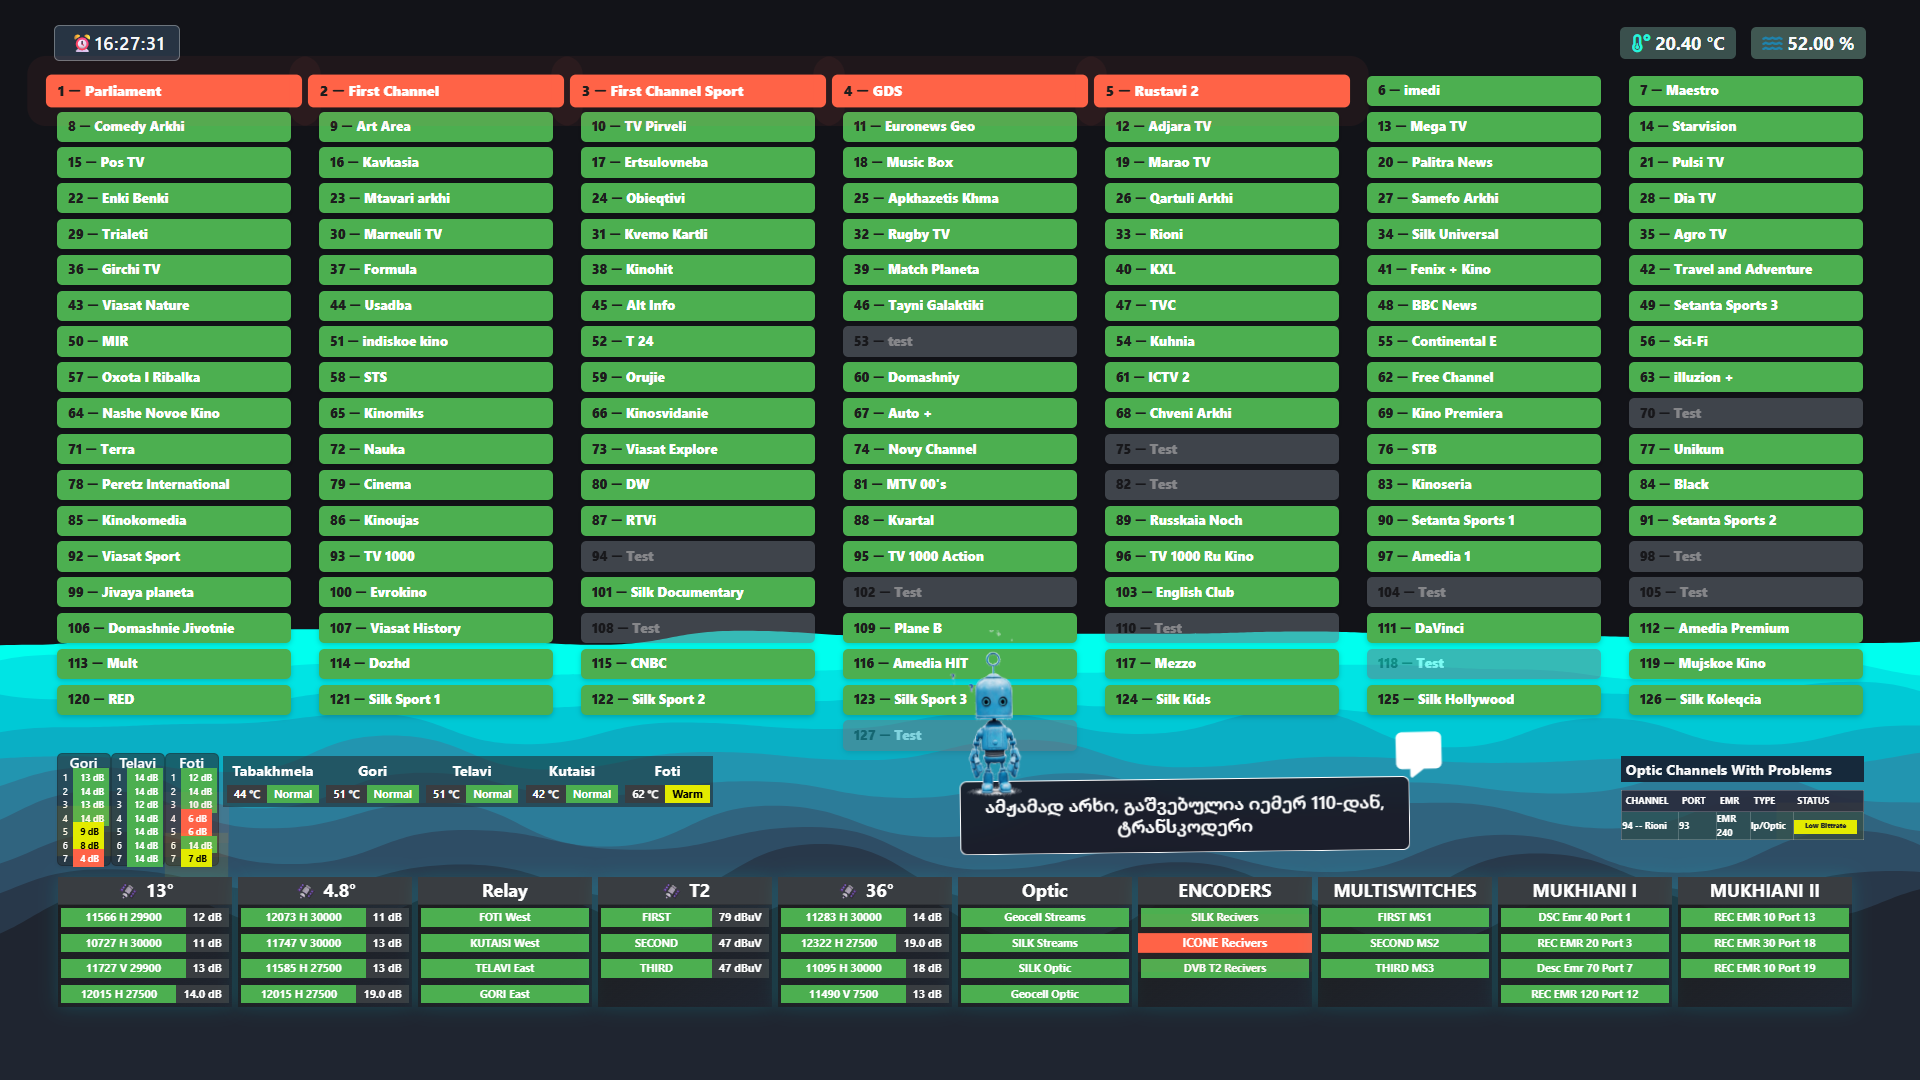
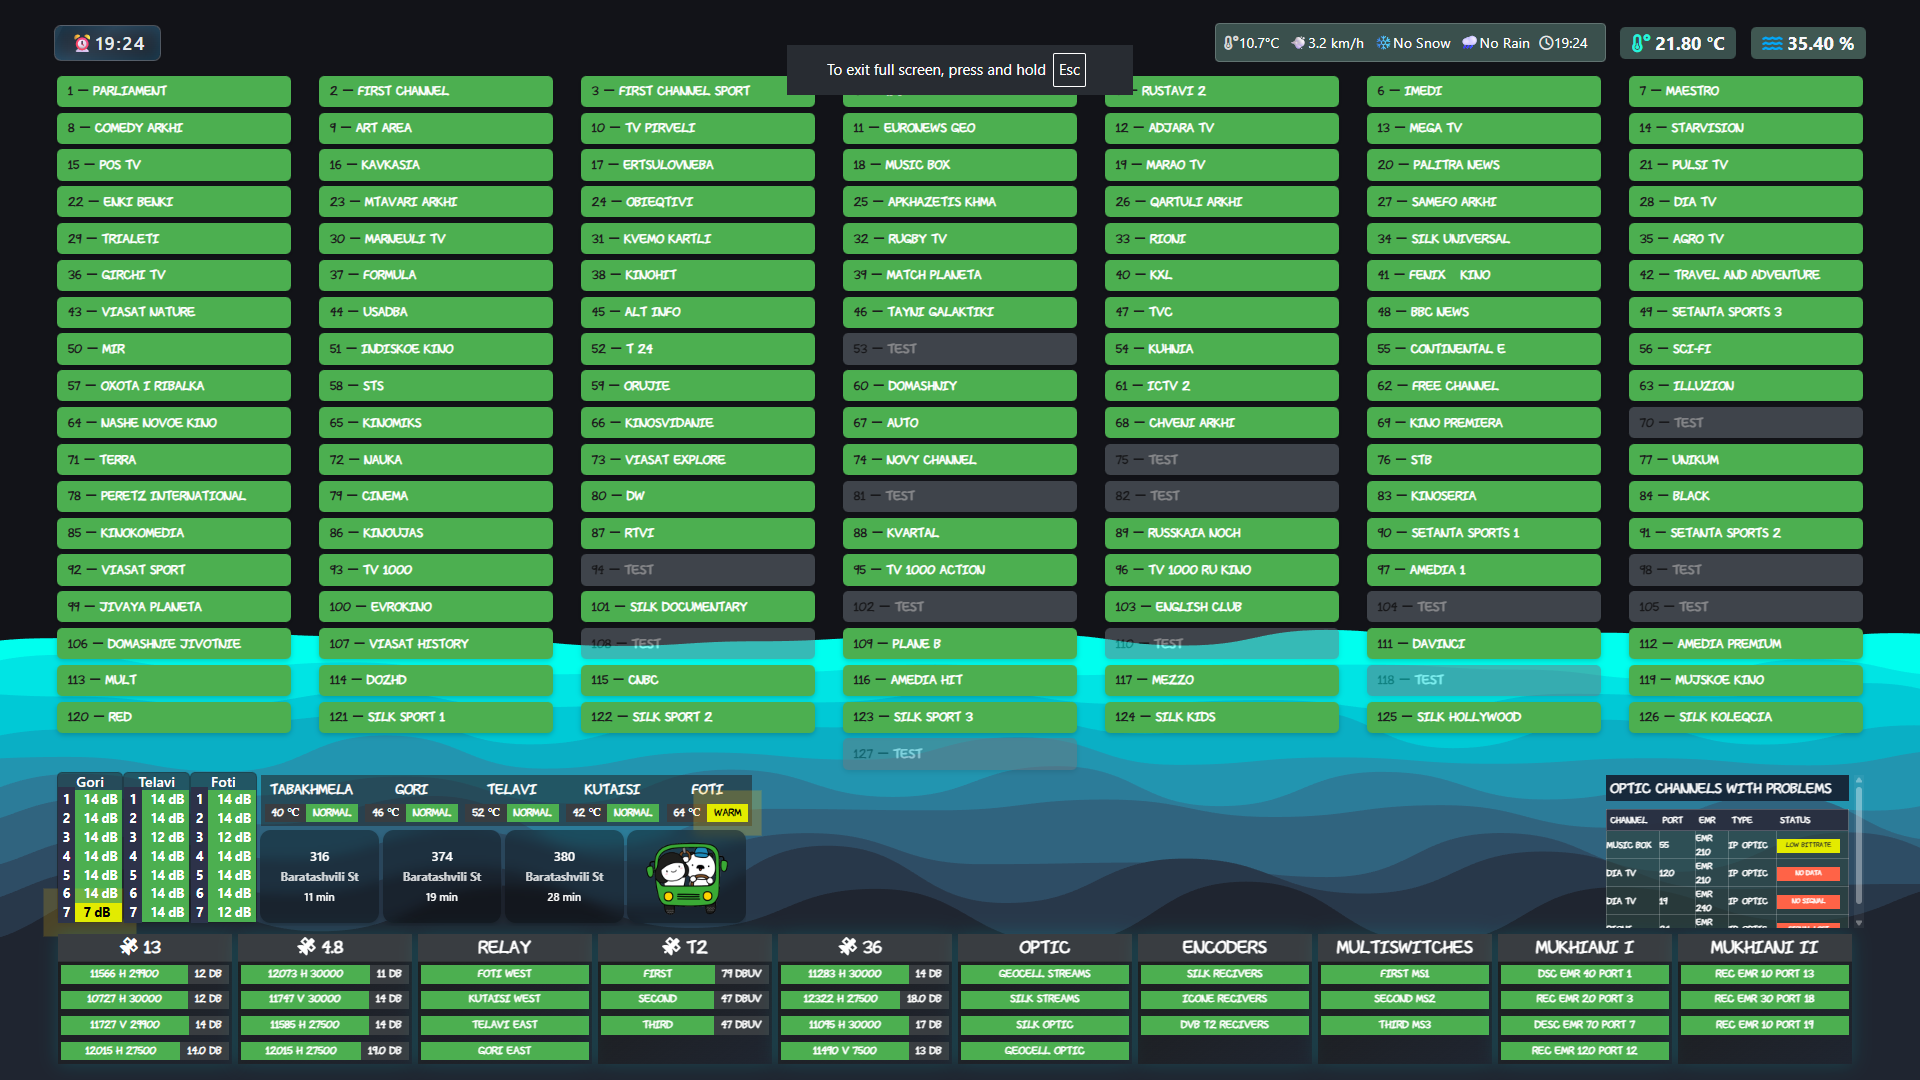
update screenshoot

diff --git a/src/app/natiaUI/natia/natia.component.scss b/src/app/natiaUI/natia/natia.component.scss
@@ -483,6 +483,11 @@
         padding: 0.2rem 0.35rem;
     }
 
+    .tiny-badge-title {
+        background-color: #2d3249;
+        color: #ffffff !important;
+    }
+
     .region-relay {
         width: auto;
         text-align: center;
@@ -1225,7 +1230,7 @@
     max-width: 450px;
     position: absolute;
     right: 349px;
-    top: 34px;
+    top: 25px;
     padding: 9px;
     border: 1px solid rgba(255, 255, 255, 0.2);
 
@@ -1304,7 +1309,7 @@
     text-align: center;
     transition: transform 0.2s ease, background 0.2s ease;
     cursor: default;
-    width: 134px;
+    width: 132px;
 }
 
 .bus-card:hover {

diff --git a/src/app/natiaUI/natia/natia.component.css b/src/app/natiaUI/natia/natia.component.css
@@ -366,6 +366,10 @@
   font-size: 14px;
   padding: 0.2rem 0.35rem;
 }
+.region-relay-section .tiny-badge-title {
+  background-color: #2d3249;
+  color: #ffffff !important;
+}
 .region-relay-section .region-relay {
   width: auto;
   text-align: center;
@@ -862,7 +866,7 @@
   max-width: 450px;
   position: absolute;
   right: 349px;
-  top: 34px;
+  top: 25px;
   padding: 9px;
   border: 1px solid rgba(255, 255, 255, 0.2);
 }
@@ -937,7 +941,7 @@
   text-align: center;
   transition: transform 0.2s ease, background 0.2s ease;
   cursor: default;
-  width: 134px;
+  width: 132px;
 }
 
 .bus-card:hover {

diff --git a/src/app/natiaUI/natia/natia.component.html b/src/app/natiaUI/natia/natia.component.html
@@ -266,14 +266,14 @@
             <h6 class="card-title  m-0">{{ region.regionName }}</h6>
 
             <!-- RelayInfos badges -->
-            <div *ngFor="let info of region.relayInfos; trackBy: trackByRelayInfo" class="regionrelay-mer">
-              <span class="tiny-badge">{{ info.frequecyOrder }}</span>
-
-              <span class="tiny-badge" [ngClass]="{
+            <div *ngFor="let info of region.relayInfos; trackBy: trackByRelayInfo" class="regionrelay-mer" [ngClass]="{
                     'natia-temp-error': info.isHaveProblem,
                     'natia-warn': !info.isHaveProblem && info.isWarning,
                     'natia-success': !info.isHaveProblem && !info.isWarning
                              }">
+              <span class="tiny-badge tiny-badge-title">{{ info.frequecyOrder }}</span>
+
+              <span class="tiny-badge">
                 {{ info.mer }}
               </span>
 

diff --git a/src/app/natiaUI/natia/natia.component.ts b/src/app/natiaUI/natia/natia.component.ts
@@ -478,8 +478,8 @@ export class NatiaComponent implements OnInit {
           this.weatherList = dataArray.map(item => ({
             temperature: item.Temperature ?? item.temperature ?? 0,
             wind: item.Wind ?? item.wind ?? 0,
-            snow: item.Snow ?? 'No Snow',
-            rain: item.Rain ?? 'No Rain',
+            snow: item.Snow ?? item.snow ??'No Snow',
+            rain: item.Rain ?? item.rain ??'No Rain',
             timestamp: new Date().toISOString() // always provide string
           }));
 

diff --git a/src/service/signal-rservice.service.ts b/src/service/signal-rservice.service.ts
@@ -236,8 +236,8 @@ export class SignalRService {
         const mappedData: WeatherUpdate[] = dataArray.map(item => ({
           temperature: item.Temperature ?? item.temperature ?? 0,
           wind: item.Wind ?? item.wind ?? 0,
-          snow: item.Snow ?? 'No Snow',
-          rain: item.Rain ?? 'No Rain',
+          snow: item.Snow ?? item.snow ??'No Snow',
+          rain: item.Rain ?? item.rain ??'No Rain',
           timestamp: new Date().toISOString(),
           location: item.Location ?? item.location ?? ''
         }));

diff --git a/src/styles.css b/src/styles.css
@@ -10,7 +10,7 @@ body {
 /* styles.scss */
 /* Default light/day background */
 .day-theme {
-  background-image: url("../src/assets/svg/circle-join.svg");
+  background-image: url("../src/assets/svg/purple.svg");
   background-size: cover;
   background-repeat: no-repeat;
   background-position: left;

diff --git a/src/styles.scss b/src/styles.scss
@@ -12,7 +12,7 @@ body {
 
 /* Default light/day background */
 .day-theme {
-  background-image: url('../src/assets/svg/circle-join.svg');
+  background-image: url('../src/assets/svg/purple.svg');
   background-size: cover;
   background-repeat: no-repeat;
   background-position: left;

diff --git a/src/model/weather-update.ts b/src/model/weather-update.ts
@@ -4,4 +4,5 @@ export interface WeatherUpdate {
     snow?: 'No Snow' | 'Snow' | 'Heavy Snow' | string;
     rain?: 'No Rain' | 'Rain' | 'Heavy Rain' | string;
     timestamp?: string;
+    location?: string;
 }

diff --git a/README.md b/README.md
@@ -18,11 +18,15 @@ NatiaUIApp is an Angular 17 project built as a modern television streaming platf
 
 ### Web View
 
-## Dark Theme
+
 ![Screenshot](/src/screenshots/Screenshot1.png)
 
-## Light Theme
 ![Screenshot](/src/screenshots/Screenshot2.png)
+
+![Screenshot](/src/screenshots/Screenshot3.png)
+
+![Screenshot](/src/screenshots/Screenshot4.png)
+
 
 *(Add your actual screenshots in a `/screenshots` folder inside the project)*
 